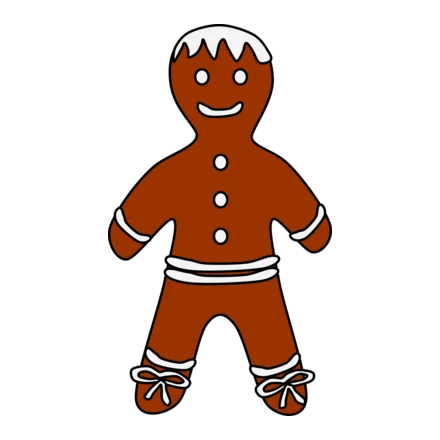
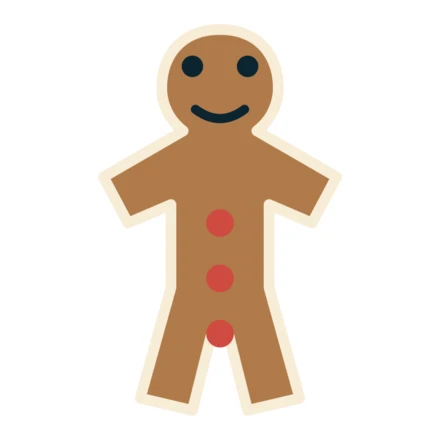
Draw the stickers and mascot to match the background instead of clip art

Changed region(s): [[0.2068, 0.0295, 0.7977, 0.9455]]

diff --git a/public/theme/CREDITS.md b/public/theme/CREDITS.md
@@ -1,11 +1,12 @@
-# Artwork credits
+# Artwork
 
 - `background.webp`: supplied by the organisers for this event.
-- `logo.webp`: drawn for this copy of Telecast.
-- `mascot.webp`, `stickers/sticker1-10.webp`: public-domain clip art from
-  [publicdomainvectors.org](https://publicdomainvectors.org). Their collection is released into the
-  public domain, so there is nothing to attribute and no licence to carry. Sources, by sticker:
-  1 candy cane, 2 bauble, 3 gingerbread man, 4 holly, 5 present, 6 snowflake, 7 bell,
-  8 Christmas tree, 9 wreath, 10 hot drink.
+- `logo.webp`, `mascot.webp`, `stickers/sticker1-10.webp`: drawn for this copy of
+  Telecast, so there is nothing to license or credit.
+- `stickers/flag.svg`: drawn for this copy.
 
-If you want different art, drop a `webp` with the same filename over the top and rebuild.
+Stickers are cream linework on flat fills, matching the background's gold-on-navy
+night sky. Every file can be replaced by dropping in a new image with the same
+name: `background.webp` (1920x1080), `logo.webp` (wide, transparent),
+`mascot.webp` (tall, transparent), and `stickers/sticker1-10.webp` (square,
+transparent, artwork kept inside a 392px box on a 440px canvas).
